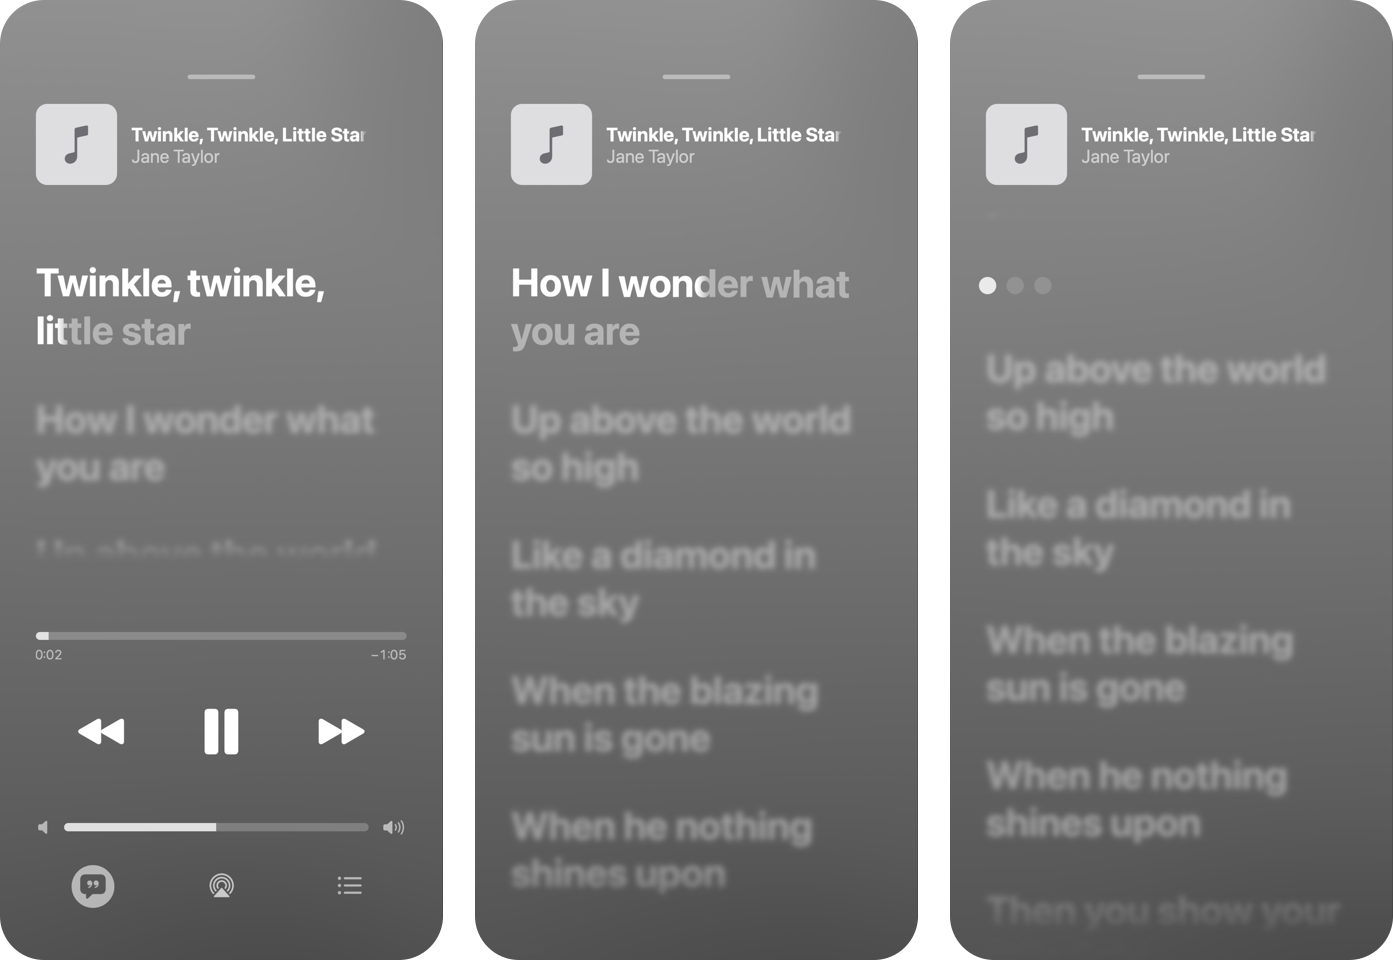
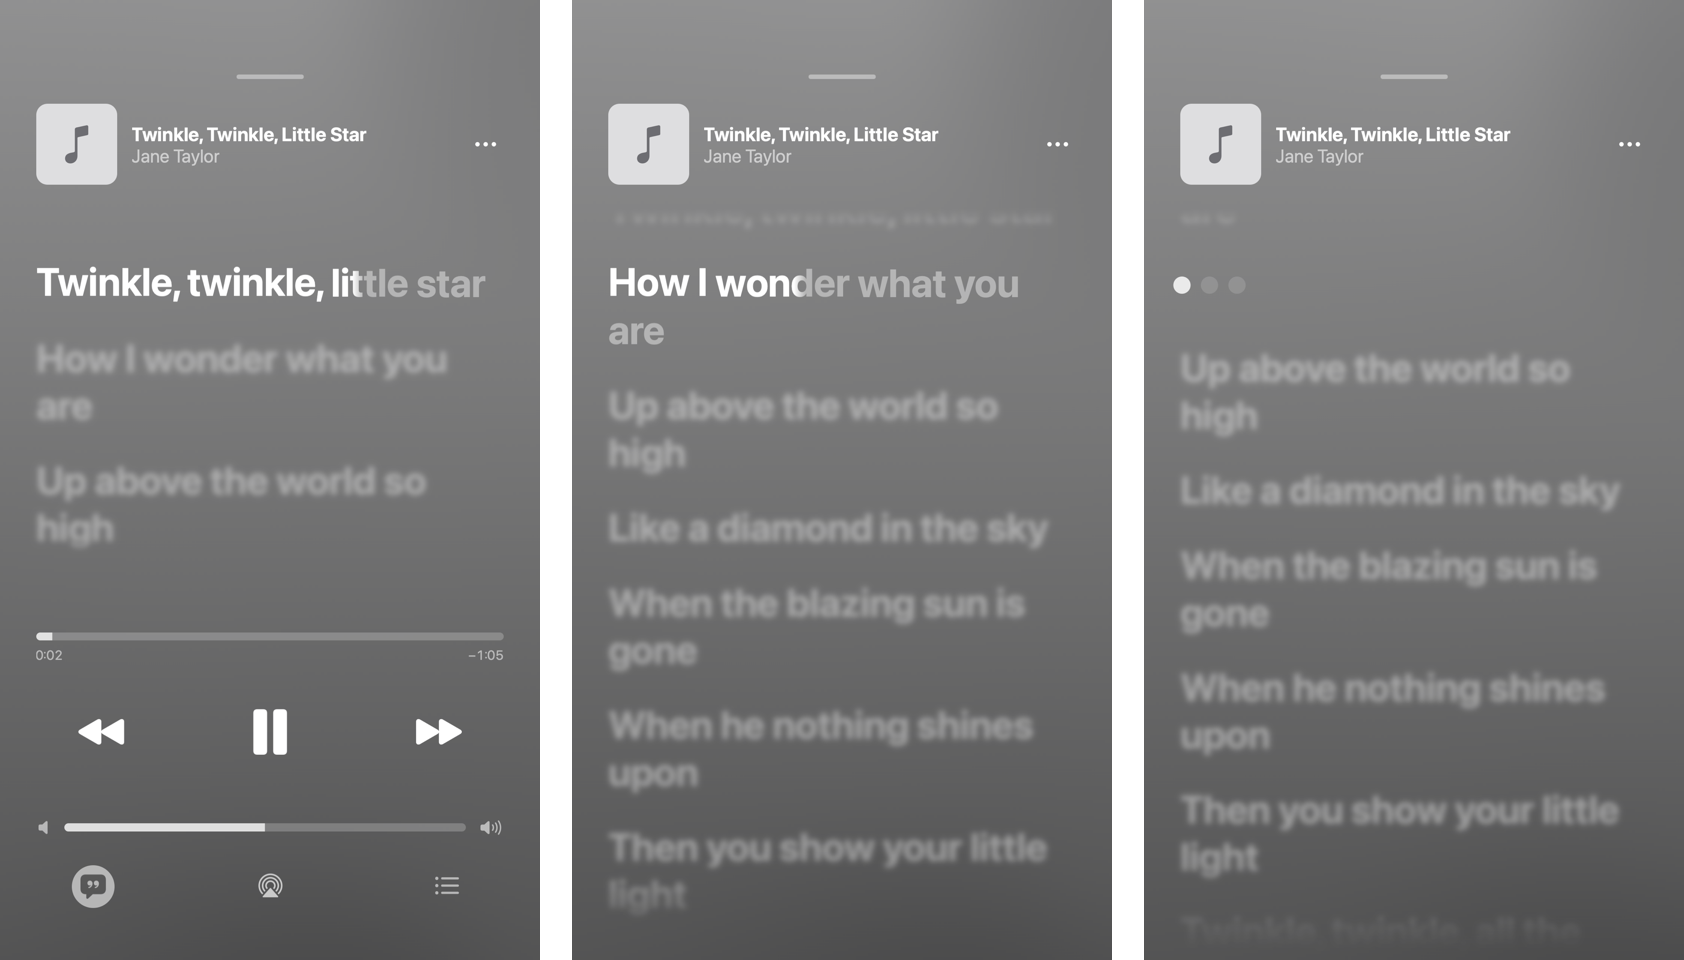
docs: document numbers, high-resolution audio, and clearer errors
Describe how numbers in lyrics are aligned, the supported audio range
and output sound, and the new lyric and audio errors; consolidate the
fallback-placement explanation into Reviewing an Alignment; and replace
the demonstration image with full-width 9:16 frames that include the
More button.

diff --git a/README.md b/README.md
@@ -21,7 +21,7 @@ ilyrics render song.m4a lyrics.txt -o video.mp4
 ```
 
 <p align="center">
-  <img src="docs/media/demo.png" alt="Three frames of a rendered Lyrics video of Twinkle, Twinkle, Little Star: the first line filling while the playback controls are visible, the next line filling word by word after the controls have hidden, and the instrumental-gap indicator" width="720">
+  <img src="docs/media/demo.png" alt="Three full-width frames of a rendered Lyrics video of Twinkle, Twinkle, Little Star, with the More button at the top right: the first line filling while the playback controls are visible, the next line filling word by word after the controls have hidden, and the instrumental-gap indicator" width="720">
 </p>
 
 > [!IMPORTANT]
@@ -48,7 +48,7 @@ ilyrics render song.m4a lyrics.txt -o video.mp4
 
 ## Features
 
-- **Automatic synchronization.** Plain text lyrics are aligned line by line and word by word against a separated vocal stem. Lines without accepted acoustic timing receive reported fallback placements. Interior runs retain neighbour-based fallback; only eligible boundary runs may relocate under [Plan C](#reviewing-an-alignment), using activity solely as a hint rather than acoustic acceptance.
+- **Automatic synchronization.** Plain text lyrics are aligned line by line and word by word against a separated vocal stem. Lines without reliable timing are placed rather than aligned, and are reported ([Reviewing an Alignment](#reviewing-an-alignment)).
 - **A faithful Lyrics screen.** Focus motion, word fill with a gentle lift, emphasis of sustained final words, instrumental-gap indicators, a scrolling title, an artwork-derived background, and controls that hide after playback starts. These visual features are based on reference recordings of the Music app on iPhone running iOS 27, with the limitations stated below. Backing-chorus functionality remains implemented but is experimental, unverified, and unsupported.
 - **Deterministic output.** Every frame is a pure function of its timestamp, so any frame can be rendered independently and in parallel. The default CPU inference reproduces the same alignment on every run.
 - **Supplied timing.** TTML, LRC, and Enhanced LRC files are rendered exactly as supplied, without alignment.
@@ -207,6 +207,7 @@ Daylight reaches every stone
 - Section labels in brackets, such as `[Chorus]`, are ignored.
 - Do not include backing choruses in `lyrics.txt`, either as parenthesized phrases or as standalone chorus-only lines, even when written as ordinary lines. This functionality is experimental, unverified, and unsupported. Existing parenthesized input remains accepted: phrases are interpreted as backing vocals beneath their associated lead, and a parentheses-only line attaches to the preceding line. Interpretation and export are unchanged; this is a support restriction, not removal of input syntax.
 - Lines without letters, such as `...`, are ignored.
+- Numbers are aligned as they are usually sung and displayed as written: 40 (forty), 1,000 (one thousand), 1999 (nineteen ninety-nine), 2005 (two thousand five), 3:00 (three o'clock), 3:15 (three fifteen), 21st (twenty-first), and '90s (nineties). Write a number in words if it is sung differently. Other forms, such as 3.5, are reported with their line and character.
 - In a duet, a line beginning with `>` belongs to the second singer and is right-aligned, as the Music app shows it. TTML lyrics mark such paragraphs with `ttm:agent="v2"`.
 - A line beginning with `Written by:` lists the songwriters. It is not sung; it is shown as "Written By: …" below the last line, as the Music app does.
 - Sections longer than four lines are split into balanced groups; a six-line verse becomes two groups of three.
@@ -230,7 +231,7 @@ Timed lyrics are used exactly as supplied. Word timing produces word-by-word fil
 
 ### Audio
 
-Any unprotected audio file that AVFoundation can decode is accepted, including AAC, Apple Lossless up to 96 kHz, MP3, WAV, and AIFF. Recordings must be mono or stereo and at most twenty minutes long. Stereo sources keep stereo audio in the video.
+Any unprotected audio file that AVFoundation can decode is accepted, including AAC, MP3, WAV, AIFF, and Apple Lossless, also at high resolution such as 176.4 or 192 kHz (8 to 384 kHz). Recordings must be mono or stereo, at most twenty minutes long, and at most 2 GiB. The video's sound is AAC at 48 kHz, 256 kbps for stereo and 128 kbps for mono, converted once from the source; stereo sources keep stereo audio.
 
 ## Reviewing an Alignment
 
@@ -240,7 +241,7 @@ Automatic synchronization is reliable for most lines, but not all. iLyrics never
 - **Placed** lines lack accepted acoustic timing and receive fallback intervals; they fill steadily rather than word by word. Interior unresolved runs retain their existing neighbour-based fallback.
 - **Omitted** lines are untimed vocable-only lines, unless `--keep-ad-libs` is given.
 
-At leading and trailing boundaries, [Plan C](docs/reports/fallback-placement-plan-c.md) considers only the nearest eligible activity component beside the accepted anchor: the last component before the next accepted onset for a leading run, or the first component after the preceding accepted end for a trailing run. An eligible run moves only if its complete existing span, including spacing and the boundary guard, fits that component without crossing accepted intervals or audio bounds. If the nearest component is unsuitable, the original fallback placement is retained without searching farther components. Runs already fitting that component, protected runs, and runs without accepted anchors also remain unchanged. Activity is a placement hint, not evidence that the particular words were sung, and relocation does not promote a placed line to acoustic acceptance.
+Placed lines between two aligned lines are spread between them. A run of placed lines at the start or end of a song moves into the nearest stretch of vocal activity beside its aligned neighbour if it fits there completely, and otherwise stays next to that neighbour; no farther stretch is searched. Vocal activity is only a hint: it does not show that those words were sung, and a moved line remains placed rather than aligned ([Plan C](docs/reports/fallback-placement-plan-c.md)).
 
 A `Note:` line states how many lines have no word timing or were omitted, `--verbose` lists them, and `--report FILE` writes every line's status, interval, word intervals, and reasons as JSON. To correct a result, edit the TTML written by `align` and render it as supplied timing.
 
@@ -276,7 +277,10 @@ Run `ilyrics doctor` first; it checks each requirement and states the recovery s
 | --- | --- |
 | `model templates were not found` | Run iLyrics from the cloned repository or an installed package, or set `ILYRICS_TEMPLATES`. |
 | `model download failed` | Check the network connection and run `ilyrics models install` again; verified downloads are reused. |
-| `the lyrics cannot be aligned` | Remove unsupported symbols, or split sections that exceed the stated limit. |
+| `line N of FILE contains "…"` | Write the number or symbol as it is sung, or remove it; only English lyrics can be aligned. |
+| `FILE is empty`, `contains no lines to sing` | Add the lyrics, one sung line per line; section labels and `Written by:` lines are not lyrics. |
+| `the lyrics cannot be aligned` | Split sections that exceed the stated limit. |
+| `Audio has N channels` | Mix the recording down to stereo. |
 | `Protected audio is unsupported` | Use a file you own without DRM; streamed Apple Music downloads cannot be read. |
 | `... already exists` | Choose another output or pass `--force`. |
 
@@ -292,7 +296,7 @@ You are likewise responsible for holding the rights to the recordings, lyrics, a
 
 - Automatic synchronization supports English. Japanese and other languages are planned for a later release, currently targeted as v1.2.0.
 - Backing choruses, including parenthesized phrases and standalone chorus-only lines written as ordinary lines, are experimental, unverified, and unsupported. Exclude them from `lyrics.txt`; lead-sung refrains, `[Chorus]` labels, and vocable-only lines remain permitted. See [Plain Text](#plain-text) for observed issues and unchanged compatibility.
-- On 80 unseen recordings with manual word timing, 95.9% of lines were placed correctly, 0.5% were misplaced, and 3.6% were left untimed; three recordings fell below 80% ([qualification results](docs/reports/third-preview-qualification-results.md)). Accuracy is lower when several singers sing different words at once and for shouted or heavily processed vocals. Lines without accepted timing use fallback placements and fill steadily rather than word by word. Interior runs retain neighbour-based fallback; an eligible leading or trailing run may move only if its full existing span fits the nearest eligible activity component beside its accepted anchor. Otherwise its original placement remains; no farther component is searched. Activity is a hint, not proof of the supplied words or acoustic acceptance. See [Reviewing an Alignment](#reviewing-an-alignment).
+- On 80 unseen recordings with manual word timing, 95.9% of lines were placed correctly, 0.5% were misplaced, and 3.6% were left untimed; three recordings fell below 80% ([qualification results](docs/reports/third-preview-qualification-results.md)). Accuracy is lower when several singers sing different words at once and for shouted or heavily processed vocals. Lines without reliable timing are placed rather than aligned and fill steadily rather than word by word; see [Reviewing an Alignment](#reviewing-an-alignment).
 - Rendering targets the iPhone portrait screen at 1080 × 1920 and 60 frames per second.
 - The visual target is the Music app on iPhone 16 running iOS 27, in light appearance with the default text size. Against six unseen screen recordings, control positions and the auto-hide delay match within the approved thresholds; focus motion, word fill timing, title marquee timing, paragraph spacing, and most line wrapping are close; the known differences are the background's colour and contrast, inactive lines that are brighter than native, the timing of the instrumental-gap indicator, and some wrapped lines ([visual qualification results](docs/reports/visual-qualification-results.md)).
 - Translations, the Sing mode, and landscape layouts are not rendered.

diff --git a/docs/command-line-interface.md b/docs/command-line-interface.md
@@ -25,7 +25,7 @@ Control icons are always SF Symbols, resolved at runtime; there is no icon optio
 
 ## Lyrics Input
 
-Untimed lyrics are plain UTF-8 text. Blank lines separate paragraphs. Lines consisting only of a bracketed section label, such as `[Chorus]`, are ignored. Parenthesized phrases become background vocals of their line; a line containing only parenthesized phrases attaches them to the preceding line. Paragraphs longer than four lines are split. Lines consisting only of vocables that the alignment cannot time are omitted unless `--keep-ad-libs` is given. A line beginning with `Written by:` names the songwriters; it is not aligned and is shown after the last line. A line beginning with `>` belongs to a duet's second singer and is right-aligned; in TTML, `ttm:agent="v2"` on a paragraph has the same effect.
+Untimed lyrics are plain UTF-8 text. Blank lines separate paragraphs. Lines consisting only of a bracketed section label, such as `[Chorus]`, are ignored. Parenthesized phrases become background vocals of their line; a line containing only parenthesized phrases attaches them to the preceding line. Paragraphs longer than four lines are split. Lines consisting only of vocables that the alignment cannot time are omitted unless `--keep-ad-libs` is given. Numbers are aligned by their usual sung form and displayed as written: cardinals such as 40 and 1,000, four-digit years such as 1999 and 2005, clock times such as 3:00 and 3:15, ordinals such as 21st, and decades such as '90s; other forms, such as 3.5, are rejected with their line number and character. A line beginning with `Written by:` names the songwriters; it is not aligned and is shown after the last line. A line beginning with `>` belongs to a duet's second singer and is right-aligned; in TTML, `ttm:agent="v2"` on a paragraph has the same effect.
 
 ### Backing Choruses and Vocables
 
